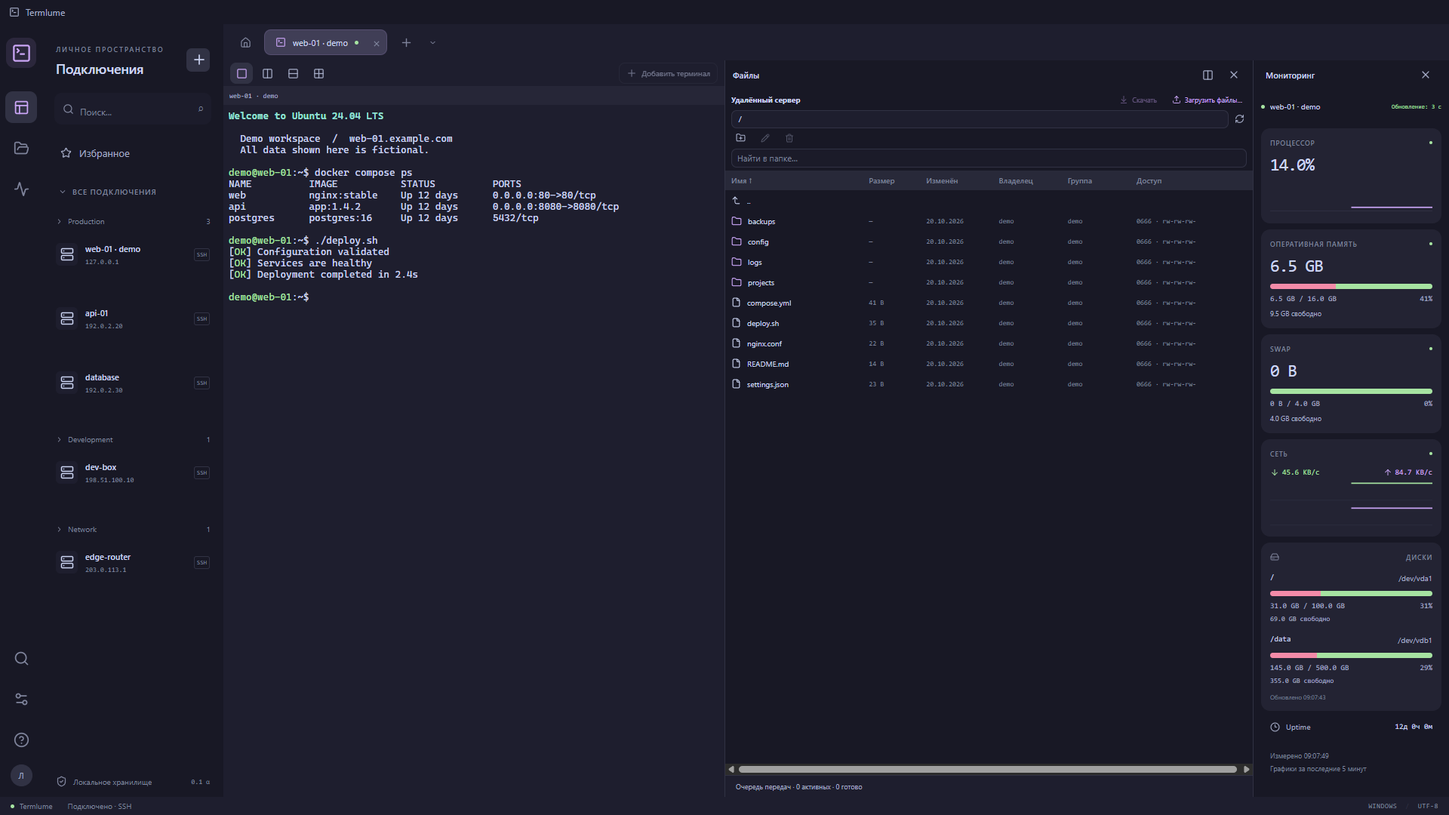
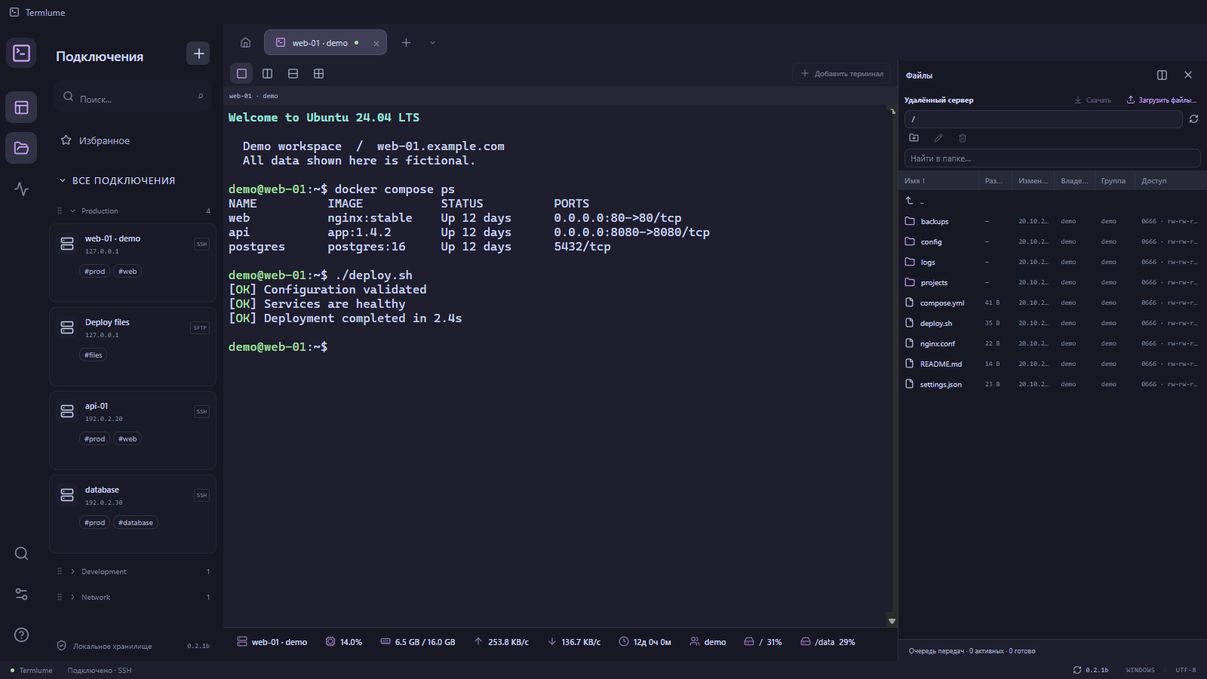
Refresh project page and demo screenshots

diff --git a/tests/e2e/screenshots.spec.ts b/tests/e2e/screenshots.spec.ts
@@ -4,11 +4,16 @@ import { tmpdir } from 'node:os'
 import { join } from 'node:path'
 import { sshFixture } from '../integration/fixtures/ssh-server'
 import { allowClosing } from './helpers'
+import { commands } from '../../src/main/monitoring/commands'
 
 test('capture isolated demonstration workspace', async () => {
   test.skip(process.env.TERMLUME_SCREENSHOTS !== '1', 'Opt-in documentation screenshots')
   const root = await mkdtemp(join(tmpdir(), 'termlume-demo-'))
   const remote = join(root, 'remote')
+  const local = join(process.cwd(), 'test-results', 'readme-demo-files')
+  await mkdir(local, { recursive: true })
+  await writeFile(join(local, 'compose.yml'), 'services:\n  web:\n    image: nginx:stable\n')
+  await writeFile(join(local, 'deploy.sh'), '#!/bin/sh\necho Deploy\n')
   await mkdir(remote)
   await mkdir('docs/images', { recursive: true })
   for (const folder of ['backups', 'config', 'logs', 'projects']) await mkdir(join(remote, folder))
@@ -27,6 +32,13 @@ test('capture isolated demonstration workspace', async () => {
     sftpRoot: remote,
     shellGreeting: greeting,
     execReply(command) {
+      if (command === commands.users)
+        return { stdout: 'demo pts/0 2026-10-20 12:00 (192.0.2.10)\n' }
+      if (command === commands.system)
+        return {
+          stdout:
+            '__TERMINAL_HOST__\nweb-01\n__TERMINAL_PROCESSES__\nS\nR\nS\n__PS_OK__\n__TERMINAL_LOAD__\n0.14 0.18 0.21 1/128 1245\n__TERMINAL_FILES__\n1024 0 1048576\n__TERMINAL_MOUNTS__\n/dev/vda1 / ext4 rw 0 0\n__MOUNTS_OK__\n__TERMINAL_CONNECTIONS__\nLISTEN 0 128 0.0.0.0:22 0.0.0.0:*\n__SS_OK__\n',
+        }
       if (command.startsWith('getent passwd')) return { stdout: 'demo:x:0:0::/home/demo:/bin/bash' }
       if (command.startsWith('getent group')) return { stdout: 'demo:x:0:' }
       if (command === 'uname -s') return { stdout: 'Linux' }
@@ -58,15 +70,33 @@ test('capture isolated demonstration workspace', async () => {
   })
   try {
     const page = await app.firstWindow()
-    await app.evaluate(({ BrowserWindow }) => BrowserWindow.getAllWindows()[0].setSize(1920, 1080))
+    await app.evaluate(({ BrowserWindow }) => BrowserWindow.getAllWindows()[0].setSize(1600, 900))
     await page.evaluate(async (port) => {
       await window.terminalApi.settings.update({
         themeId: 'catppuccin-mocha',
         sidebarWidth: 240,
         monitorWidth: 260,
-        sftpWidth: 700,
+        sftpWidth: 410,
+        monitoringPlacement: 'under-terminal',
+        monitoringIntervalSeconds: 1,
+        macros: [
+          {
+            id: 'logs',
+            name: 'logs',
+            description: 'Последние записи журнала',
+            command: 'journalctl -n 50 --no-pager',
+          },
+          {
+            id: 'services',
+            name: 'services',
+            description: 'Состояние служб',
+            command: 'systemctl --failed',
+          },
+          { id: 'disk', name: 'disk', description: 'Свободное место на дисках', command: 'df -h' },
+        ],
         sftpMode: 'remote-only',
-        terminalFontSize: 13,
+        terminalFontSize: 16,
+        collapsedHostGroups: ['Development', 'Network'],
       })
       for (const [index, name, host, group] of [
         [0, 'web-01 · demo', '127.0.0.1', 'Production'],
@@ -79,6 +109,12 @@ test('capture isolated demonstration workspace', async () => {
         await window.terminalApi.hosts.save({
           id,
           name,
+          tags:
+            group === 'Production'
+              ? ['prod', index === 2 ? 'database' : 'web']
+              : group === 'Network'
+                ? ['network']
+                : ['dev'],
           host,
           group,
           protocol: 'ssh',
@@ -88,7 +124,23 @@ test('capture isolated demonstration workspace', async () => {
           favorite: index < 2,
           monitoringEnabled: true,
         })
-        if (index === 0) await window.terminalApi.hosts.setSecret(id, 'test-password')
+        if (index === 0) {
+          await window.terminalApi.hosts.setSecret(id, 'test-password')
+          const filesId = '00000000-0000-4000-8000-000000000099'
+          await window.terminalApi.hosts.save({
+            id: filesId,
+            name: 'Deploy files',
+            protocol: 'sftp',
+            host: '127.0.0.1',
+            port,
+            username: 'demo',
+            auth: 'password',
+            group: 'Production',
+            favorite: false,
+            tags: ['files'],
+          })
+          await window.terminalApi.hosts.setSecret(filesId, 'test-password')
+        }
       }
     }, server.port)
     await page.reload()
@@ -100,18 +152,60 @@ test('capture isolated demonstration workspace', async () => {
     await expect(page.getByRole('contentinfo')).toContainText('Подключено')
     await page.getByRole('button', { name: 'Файлы', exact: true }).click()
     await expect(page.getByText('compose.yml', { exact: true })).toBeVisible()
-    await expect(page.locator('.monitoring-content')).toBeVisible()
-    await page.waitForTimeout(6300)
+    await expect(page.getByRole('toolbar', { name: 'Мониторинг web-01 · demo' })).toBeVisible()
+    await expect(
+      page.getByRole('button', { name: 'Пользователи: demo', exact: true }),
+    ).toBeVisible()
+    await page.waitForTimeout(2300)
+    const assertPrivacy = async () => {
+      const visible = await page.evaluate(
+        () =>
+          document.body.innerText +
+          '\n' +
+          [...document.querySelectorAll('input')].map((input) => input.value).join('\n'),
+      )
+      for (const value of [process.env.USERNAME, process.env.USERPROFILE])
+        if (value) expect(visible.toLowerCase()).not.toContain(value.toLowerCase())
+    }
+    await assertPrivacy()
     await page.screenshot({ path: 'docs/images/overview-dark.png' })
     await page.getByRole('button', { name: 'Настройки', exact: true }).click()
     await page.getByRole('button', { name: 'VS Code Light Modern', exact: true }).click()
     await page.getByRole('button', { name: 'Применить', exact: true }).click()
     await expect(page.getByRole('dialog')).toHaveCount(0)
+    await assertPrivacy()
     await page.screenshot({ path: 'docs/images/overview-light.png' })
+    await page.getByRole('button', { name: 'Настройки', exact: true }).click()
+    await page.getByRole('button', { name: 'Catppuccin Mocha', exact: true }).click()
+    await page.getByRole('button', { name: 'Применить', exact: true }).click()
+    await expect(page.getByRole('dialog')).toHaveCount(0)
+    await page.getByRole('button', { name: 'Файлы', exact: true }).click()
+    await page.locator('.terminal-pane.active .xterm-helper-textarea').focus()
+    await page.keyboard.type('/')
+    await expect(page.getByRole('listbox', { name: 'Доступные макросы' })).toBeVisible()
+    await assertPrivacy()
+    await page.locator('.terminal-macros').screenshot({ path: 'docs/images/macros.png' })
+    await page.keyboard.press('Escape')
+    await app.evaluate(({ dialog }, directory) => {
+      dialog.showOpenDialog = (async () => ({
+        canceled: false,
+        filePaths: [directory],
+      })) as typeof dialog.showOpenDialog
+    }, local)
+    await page.getByRole('button', { name: 'Подключиться: Deploy files', exact: true }).click()
+    const files = page.getByRole('region', { name: 'Файловый клиент: Deploy files' })
+    await expect(files.getByText('compose.yml', { exact: true })).toBeVisible()
+    await files.getByTitle('Выбрать локальную папку', { exact: true }).click()
+    await expect(
+      files.locator('.file-side').first().getByText('deploy.sh', { exact: true }),
+    ).toBeVisible()
+    await assertPrivacy()
+    await page.screenshot({ path: 'docs/images/file-client.png' })
   } finally {
     await allowClosing(app)
     await app.close()
     await server.close()
     await rm(root, { recursive: true, force: true })
+    await rm(local, { recursive: true, force: true })
   }
 })

diff --git a/README.md b/README.md
@@ -1,78 +1,117 @@
 <div align="center">
-  <img src="build/icon.svg" width="80" alt="Termlume" />
-  <h1>Termlume</h1>
-  <p>SSH, файлы и мониторинг серверов — в одном окне.</p>
+  <picture>
+    <source media="(prefers-color-scheme: light)" srcset="docs/images/cover-light.svg" />
+    <img src="docs/images/cover-dark.svg" alt="Termlume — терминал, файлы и мониторинг" width="100%" />
+  </picture>
+
+  <p><strong>SSH-клиент для Windows, в котором всё рядом.</strong><br />
+  Сессии, файлы и состояние сервера — в одной рабочей области.</p>
+
   <p>
-    <a href="https://github.com/Termlume/Termlume/releases"><img alt="Скачать" src="https://img.shields.io/badge/Windows_x64-Скачать-7c6ff7?style=for-the-badge&logo=windows" /></a>
-    <a href="#coffee"><img alt="На кофе :)" src="https://img.shields.io/badge/На_кофе_:)_-%E2%98%95-ffb86c?style=for-the-badge" /></a>
+    <a href="https://github.com/Termlume/Termlume/releases/latest"><img src="https://img.shields.io/github/v/release/Termlume/Termlume?style=flat-square&amp;label=release&amp;color=7354b5" alt="Последняя версия" /></a>
+    <img src="https://img.shields.io/badge/Windows-10%20%2F%2011-0078D4?style=flat-square" alt="Windows 10 и 11" />
+    <img src="https://img.shields.io/badge/status-beta-e6b450?style=flat-square" alt="Бета-версия" />
   </p>
-  <p><b>0.2.1b · Beta</b> · Windows 10/11 · Интерфейс на русском языке</p>
+
+  <p>
+    <a href="https://github.com/Termlume/Termlume/releases/latest"><strong>Скачать для Windows x64</strong></a>
+    &nbsp; · &nbsp; <a href="CHANGELOG.md">Что нового</a>
+    &nbsp; · &nbsp; <a href="https://github.com/Termlume/Termlume/issues/new?template=bug_report.yml">Сообщить об ошибке</a>
+    &nbsp; · &nbsp; <a href="#coffee">На кофе :)</a>
+  </p>
 </div>
 
-[![CI](https://github.com/Termlume/Termlume/actions/workflows/ci.yml/badge.svg)](https://github.com/Termlume/Termlume/actions/workflows/ci.yml)
-[![Release](https://img.shields.io/github/v/release/Termlume/Termlume?include_prereleases&label=release)](https://github.com/Termlume/Termlume/releases)
+<picture>
+  <source media="(prefers-color-scheme: light)" srcset="docs/images/overview-light.png" />
+  <img src="docs/images/overview-dark.png" alt="Termlume: SSH-сессия, файловый браузер и компактный мониторинг сервера" width="100%" />
+</picture>
 
-![Termlume: терминал, файлы и мониторинг](docs/images/overview-dark.png)
+<p align="center"><sub>Реальный интерфейс 0.2.1b. На всех снимках — демонстрационные подключения и файлы.</sub></p>
 
-### Что умеет
+## Всё для работы с сервером
 
-- SSH, Telnet, WSL, PowerShell и cmd. Вкладки, избранное и разделение рабочей области.
-- Самостоятельные двухпанельные вкладки SFTP и FTP/FTPS. В SSH-сеансах — SFTP с резервным SCP; отдельный доступ к файлам WSL и локальной оболочки.
-- Перетаскивание файлов между сервером и Проводником, открытие в выбранном редакторе и обратная загрузка сохранений.
-- Права доступа, владелец и группа; сортировка, изменение ширины столбцов и контекстное меню.
-- Мониторинг Linux справа или компактной полосой под терминалом: CPU, RAM, диски, сеть, пользователи, процессы и TCP-соединения. Подробности при наведении и выбор видимых показателей.
-- Теги подключений с поиском по `#prod`, избранное и сворачиваемые группы с изменяемым порядком.
-- Макросы команд: список по `/`, поиск и вставка в терминал без автоматического запуска.
-- Catppuccin, VS Code, Tokyo Night и One Dark; переназначение горячих клавиш.
-- Локальное хранение данных, защищённые пароли и импорт/экспорт резервной копии.
+| Сессии и подключения | Работа с файлами |
+| :--- | :--- |
+| SSH, Telnet, WSL, PowerShell и cmd. Вкладки и изменяемые сплиты. | Вкладки SFTP и FTP/FTPS. Файловый браузер рядом с терминалом. |
+| Избранное, теги с поиском по `#prod`, сворачиваемые группы и их перестановка. | Перенос файлов в Проводник и обратно. Открытие в редакторе и загрузка сохранённых изменений на сервер. |
+| Макросы по `/` и переназначение горячих клавиш. | Права, владелец и группа, контекстное меню, сортировка и адаптивные столбцы. |
+
+**Состояние сервера перед глазами.** CPU, RAM, диски, трафик, пользователи и TCP-соединения Linux. Боковая панель или компактная строка под терминалом; подробности — по наведению. Установка агента на сервер не требуется.
+
+**Привычный внешний вид.** Catppuccin, VS Code, Tokyo Night и One Dark. Светлые и тёмные темы применяются и к интерфейсу, и к терминалу.
+
+## Посмотреть ближе
 
 <details>
-<summary>Светлая тема</summary>
+<summary><strong>Файловый клиент — локальная и удалённая стороны</strong></summary>
 
-![Termlume в светлой теме](docs/images/overview-light.png)
+Отдельная вкладка для передачи файлов. Права, владелец и группа отображаются в таблице; действия доступны по правому клику.
+
+![Двухпанельная вкладка SFTP с демонстрационными файлами](docs/images/file-client.png)
 
 </details>
 
-### Установка
+<details>
+<summary><strong>Макросы — частые команды под рукой</strong></summary>
 
-Скачайте `Termlume-Setup-…-x64.exe` из [Releases](https://github.com/Termlume/Termlume/releases) и установите приложение. WSL устанавливается отдельно, если вы планируете им пользоваться.
+Введите `/` в начале команды, найдите макрос и выберите его. Команда сначала вставляется в терминал; повторный Enter запускает её. Список настраивается в настройках приложения.
 
-Это бета-выпуск в основном канале обновлений. Установщик пока без цифровой подписи. Папки передаются рекурсивно; объединение существующих папок, перенос папок на рабочий стол и продолжение передачи с места обрыва пока не поддерживаются; Telnet сам по себе не предоставляет файлового канала.
+<img src="docs/images/macros.png" alt="Список макросов терминала: журналы, службы и свободное место" width="560" />
 
-### Обновления и данные
+</details>
 
-Новые версии появляются в приложении автоматически. В настройках можно проверить обновления вручную и выбрать стабильный либо предварительный канал. Скачивание и перезапуск выполняются по вашей команде; переход между каналами не устанавливает более старую версию.
+<details>
+<summary><strong>Светлая тема</strong></summary>
 
-Данные хранятся отдельно от программы, в `%APPDATA%\Terminal`. Это имя каталога сохранено для совместимости с первыми версиями. Обновление не удаляет подключения, настройки или пароли. Секреты защищены средствами Windows и привязаны к вашей учётной записи. Для переноса на другой компьютер используйте зашифрованный экспорт из настроек.
+![Рабочая область Termlume в теме VS Code Light Modern](docs/images/overview-light.png)
 
-На скриншотах — изолированный демонстрационный профиль и тестовый сервер.
+</details>
 
-### Разработка
+## Установка и обновления
 
-Windows, Node.js 22.12+ и npm; для сборки C#-помощника используется установленный .NET Framework.
+1. Откройте [последний выпуск](https://github.com/Termlume/Termlume/releases/latest) и скачайте `Termlume-Setup-…-x64.exe`.
+2. Установите приложение и добавьте подключение. Для локального терминала доступны PowerShell и cmd; WSL устанавливается отдельно.
+3. Новые версии проверяются каждый час. Скачать и установить обновление можно из уведомления или настроек.
 
-```sh
-npm ci
-npm run dev
-npm run typecheck
-npm test
-npm run dist:win
-```
+**Основной канал** — публичная бета. **Предварительный** — альфа-сборки с новыми возможностями. Канал выбирается в настройках; при переключении приложение не понижает установленную версию.
 
-[Как выпустить версию](docs/RELEASING.md) · [Сообщить об ошибке](https://github.com/Termlume/Termlume/issues/new?template=bug_report.yml)
+<details>
+<summary>О текущей бете</summary>
+
+Поддерживаются Windows 10/11 x64. Установщик пока без цифровой подписи. Продолжение передачи после обрыва, объединение существующих папок и перенос папок на рабочий стол пока не поддерживаются. Telnet сам по себе не предоставляет файлового канала.
+
+</details>
+
+## Ваши данные остаются у вас
+
+Подключения и настройки хранятся локально, пароли защищены средствами Windows. Для использования Termlume не нужна учётная запись в облачном сервисе.
+
+Обновление приложения сохраняет подключения, пароли и настройки. Для резервной копии и переноса на другой компьютер есть зашифрованный экспорт и импорт в настройках.
+
+<details>
+<summary>Где хранятся данные</summary>
+
+`%APPDATA%\Terminal` — каталог сохранён для совместимости с первыми версиями. Пароли привязаны к учётной записи Windows. Приватные SSH-ключи не копируются в архив; ссылки на них остаются локальными.
+
+</details>
 
 <a id="coffee"></a>
 
-### На кофе :)
+## На кофе :)
 
-Если Termlume пригодился и хочется поддержать разработку:
+Если Termlume помогает в работе, можно поддержать его развитие.
 
-| Сеть             | Адрес                                              |
-| ---------------- | -------------------------------------------------- |
-| Ethereum / ERC20 | `0x9a3C0E1bbfe4012CB74B26bb87885F4A3273432D`       |
-| TON              | `UQBlqyl-R3_2G41y19kQX-z6i6ouWQwBq5SQ-OF0ci9t_hLG` |
-| Bitcoin          | `bc1q7d27puu22r8q3vnmdsqfuqh65qtflezysqhxet`       |
+<details>
+<summary><strong>Показать адреса для поддержки</strong></summary>
 
-### Лицензии
+| Сеть | Адрес |
+| :--- | :--- |
+| Ethereum / ERC20 | `0x9a3C0E1bbfe4012CB74B26bb87885F4A3273432D` |
+| TON | `UQBlqyl-R3_2G41y19kQX-z6i6ouWQwBq5SQ-OF0ci9t_hLG` |
+| Bitcoin | `bc1q7d27puu22r8q3vnmdsqfuqh65qtflezysqhxet` |
 
-Права на Termlume сохраняются за авторами; отдельная открытая лицензия на исходники пока не объявлена. Лицензии сторонних компонентов поставляются вместе с приложением в `THIRD_PARTY_NOTICES.txt` и каталоге `licenses`.
+</details>
+
+---
+
+<sub>Права на Termlume сохраняются за авторами; открытая лицензия на исходники пока не объявлена. Лицензии сторонних компонентов поставляются с приложением в `THIRD_PARTY_NOTICES.txt` и каталоге `licenses`.</sub>
